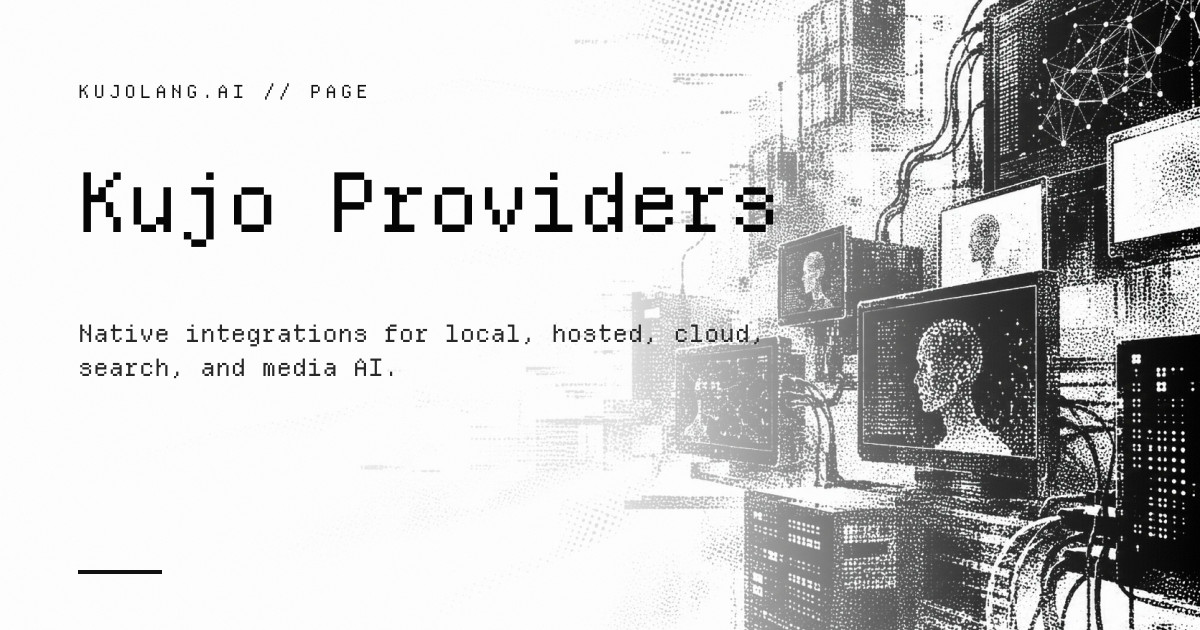
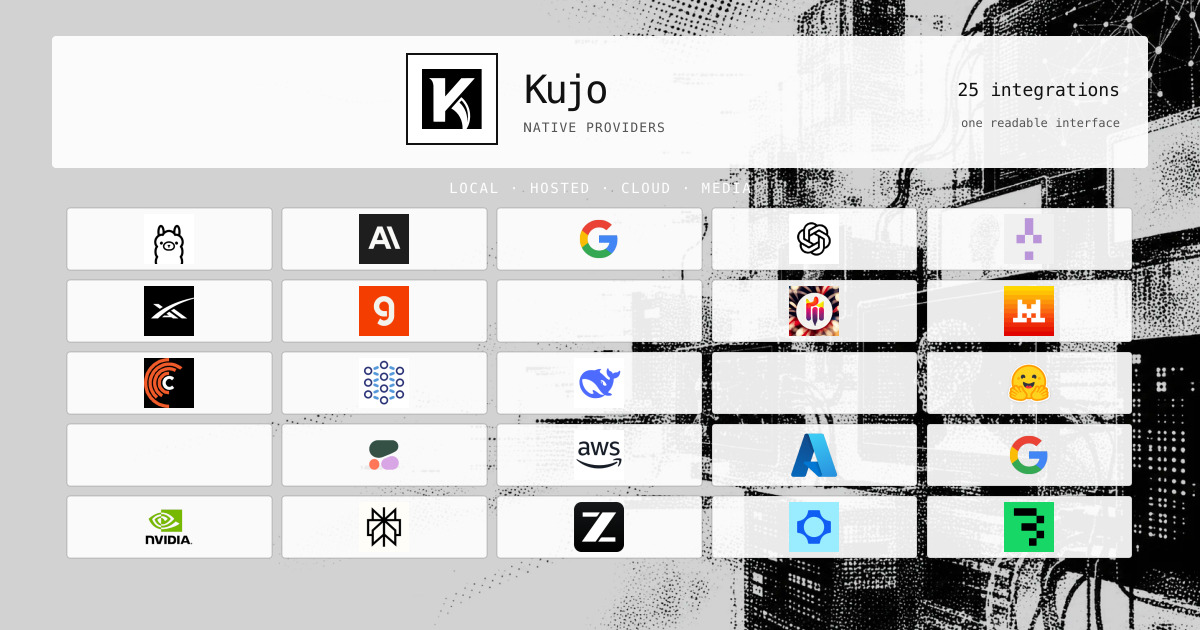
Create provider grid social card

diff --git a/CHANGELOG.md b/CHANGELOG.md
@@ -3,6 +3,7 @@
 ## Unreleased
 
 - Added the Kujo Providers directory with 25 native provider integrations, local provider marks, searchable cards, accessible detail dialogs, and README-sourced starter snippets.
+- Added a dithered provider-grid social promo card with the Kujo mark and all 25 provider logos.
 
 All notable changes to Kujolang.ai are documented here. Releases follow semantic versioning.
 
